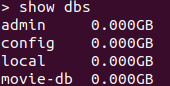
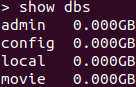
[add-manifests] update README.md

diff --git a/README.md b/README.md
@@ -24,15 +24,20 @@ In this scenario following things are being assumed:
 
 2. Telegraf is running on the server where the backup and restore script for mongodb will execute. Whenever the script(backup or restore) executes, it will writes the status in a file. Telegraf will moniter that file and once change is detected, it will write the change in a measurement of a influxdb database. Details regarding how each of these components work is given in the configuration section.
 
-### Configuration
+### Guidelines
 
-1. Run the Influxdb service, I am running it as a docker container:
+#### 1. Services Startup
+
+
+In this section service(mongdb, telegraf and influxdb) will be started and verified that everything is working fine.
+
+1.1 Run the Influxdb service, I am running it as a docker container:
 
 ```bash
 sudo docker run -p 8086:8086 -v influxdb:/var/lib/influxdb influxdb
 ```
 
-2. To check which databases exists in influxdb:
+1.2. To check which databases exists in influxdb:
 
 ```
 sudo docker exec -it <container-id> /bin/bash
@@ -42,7 +47,7 @@ influx # to open the influx shell
 help # it will print the list of available commands
 ```
 
-3. To list databases:
+1.3. To list databases:
 
 ```bash
 show databases
@@ -51,9 +56,9 @@ show databases
 
 It can be seen that there are no database except `_internal` database.
 
-4. Telegraf uses a file placed at `/etc/telegraf/telegraf.conf`, it contains configuration for its [plugins](https://v2.docs.influxdata.com/v2.0/reference/telegraf-plugins/). By default it has plugins(input and output) configured to get the system metrics where telegraf is running. `telegraf.conf` file contains alot of configurations I have modified this [file](./telegraf/telegraf.conf), just go through this file to get the basic understanding of the configuration, everything is explained.
+1.4. Telegraf uses a file placed at `/etc/telegraf/telegraf.conf`, it contains configuration for its [plugins](https://v2.docs.influxdata.com/v2.0/reference/telegraf-plugins/). By default it has plugins(input and output) configured to get the system metrics where telegraf is running. `telegraf.conf` file contains alot of configurations I have modified this [file](./telegraf/telegraf.conf), just go through this file to get the basic understanding of the configuration, everything is explained.
 
-5. Start the telegraf service, I have installed telegraf on my system. By default it tries to connect with influxdb on `localhost:8086`.
+1.5. Start the telegraf service, I have installed telegraf on my system. By default it tries to connect with influxdb on `localhost:8086`.
 
 ```bash
 sudo service telegraf start # to start the service.
@@ -66,7 +71,7 @@ sudo service telegraf status
 ```
 ![telegraf status](./images/telegraf-status.png)
 
-6. Once the influxdb is started it will dump the data for following metrics:
+1.6. Once the influxdb is started it will dump the data for following metrics:
 
     * cpu
     * system
@@ -76,7 +81,7 @@ sudo service telegraf status
     * mongodb retore
 
 
-7. Verify telegraf is configured correctly, by checking the influxdb databases and measurements.
+1.7. Verify telegraf is configured correctly, by checking the influxdb databases and measurements.
 
 ```bash
 show databases
@@ -106,7 +111,7 @@ select * from mem LIMIT 1
 It can be seen that data has been ingested in the measurement.
 
 
-8. Start the mongdb as docker container:
+1.8. Start the mongdb as docker container:
 ```bash
 sudo docker run -d \
     -e MONGO_INITDB_ROOT_USERNAME=mongoadmin \
@@ -115,7 +120,7 @@ sudo docker run -d \
     mongo
 ```
 
-9. Check mongodb is running:
+1.9. Check mongodb is running:
 
 ```bash
 # to start the bash shell inside the docker container
@@ -132,12 +137,12 @@ to check the existing dbs
 ```
 ![show dbs](./images/show-dbs.png)
 
-10. Create a new database and insert a document
+1.10. Create a new database and insert a document
 ```bash
 # to use a database
-use movie-db
+use movie
 ```
-![use movie-db])(./images/use-db.png)
+![use movie])(./images/use-db.png)
 
 ```bash
 # insert a document in movie table
@@ -153,7 +158,12 @@ show dbs
 New database movie db has been created.
 
 
-11. Take the backup of the mongo db's current state using the [`backup.sh`](./scripts/backup.sh) script. Logic of backup script is throughly explained in the file.
+
+#### 2. Backup Mongodb Data
+
+In this section mongodb data will be backuped using the backup script and encrypted using openssl. Before following the next steps make sure to read the [`backup.sh`](./scripts/backup.sh) script throughly.
+
+2.1. Take the backup of the mongo db's current state using the [`backup.sh`](./scripts/backup.sh) script. Logic of backup script is throughly explained in the file.
 
 ```bash
 # make the file executable
@@ -174,3 +184,46 @@ An encrypted file has been created in `/mnt/mongodb` directory
 A log is created at `/var/log/mongo-backup.stat` containing the following logs:
 
 ![logs file](./images/logs-file.png)
+
+
+2.2. Telegraf reads `/var/log/mongo-backup.stat` file and dump the data in the influx db's `backup measurement`
+
+![backup measurement](./images/backup-measurement.png)
+
+Extracting data from the `backup` measurement:
+
+```
+![backup measurement](./images/backup-measurement-data.png)
+```
+
+#### 3. Restore Mongodb Data
+
+In this section mongodb data will be restored using the restore script and decrypted using openssl. Before following the next steps make sure to read the [`restore.sh`](./scripts/restore.sh) script throughly.
+
+3.1. Clean the mongodb database.
+
+```bash
+mongo --username mongoadmin --password secret
+
+use movie
+
+db.dropDatabase()
+```
+
+![show dbs](./images/show-dbs.png)
+
+`movie` has been deleted.
+
+
+3.2. `movie` table will be restored by using the [`restore`](./scripts/restore.sh) script and `mongo-dd-MM-YYYY-TIMESTAMP.tar.gz.enc`.
+
+**NOTE**: Make sure that the backup file(`mongo-dd-MM-YYYY-TIMESTAMP.tar.gz.enc`) exists in the location where the `restore.sh` file is placed.
+
+```bash
+chmod +x restore.sh
+
+
+sudo ./restore.sh
+```
+
+![restore script logs](./images/restore-script-logs.png)
